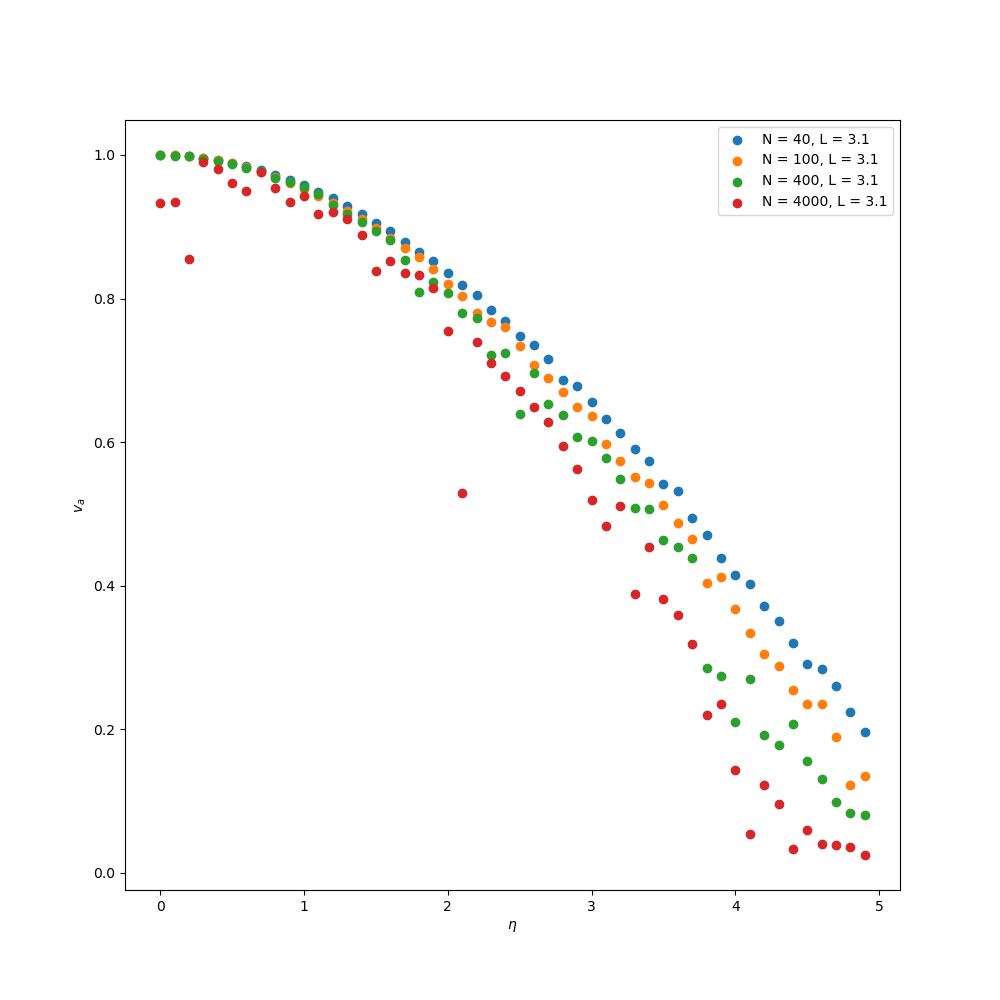
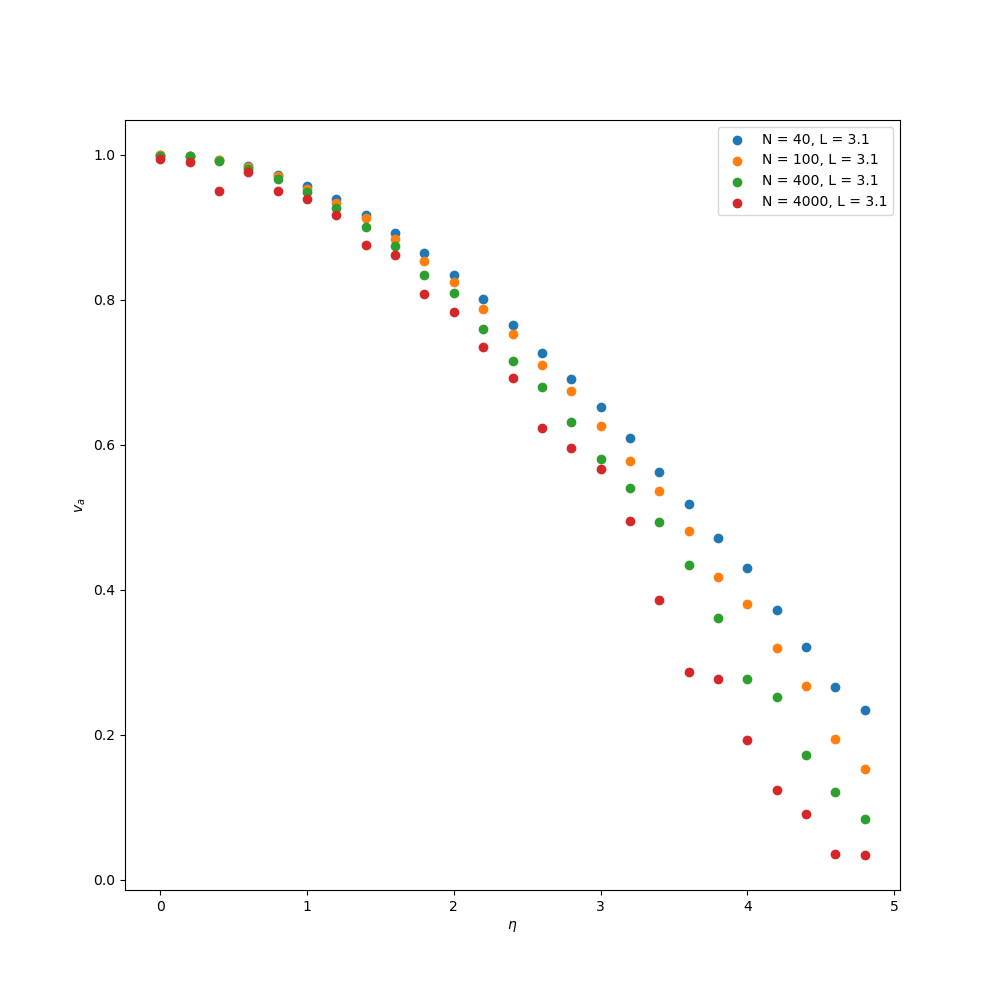
updating params

diff --git a/ploter.py b/ploter.py
@@ -91,21 +91,26 @@ ax4.quiver(X[-1], Y[-1], np.cos(Theta[-1]), np.sin(Theta[-1]))
 plt.savefig('viscek.png')
 
 plt.figure(figsize=(10, 10))
-eta = np.linspace(0, 4.9, 50)
+eta = np.linspace(0, 4.8, 25)
 
 data = np.load('V_a_0.npy')
+data = (data[0:25, :] + data[25:50, :] + data[50:75,:] + data[75:100,:])/4
+print(data.shape)
 data = np.mean(data[:, -100:], axis=1)
 plt.scatter(eta, data, label='N = 40, L = 3.1')
 
 data = np.load('V_a_1.npy')
+data = (data[0:25, :] + data[25:50, :] + data[50:75,:] + data[75:100,:])/4
 data = np.mean(data[:, -100:], axis=1)
 plt.scatter(eta, data, label='N = 100, L = 3.1')
 
 data = np.load('V_a_2.npy')
+data = (data[0:25, :] + data[25:50, :] + data[50:75,:] + data[75:100,:])/4
 data = np.mean(data[:, -100:], axis=1)
 plt.scatter(eta, data, label='N = 400, L = 3.1')
 
-data = np.load('V_a_3_4.npy')
+data = np.load('V_a_3.npy')
+data = (data[0:25, :] + data[25:50, :] + data[50:75,:] + data[75:100,:])/4
 data = np.mean(data[:, -100:], axis=1)
 plt.scatter(eta, data, label='N = 4000, L = 3.1')
 
@@ -114,10 +119,6 @@ plt.legend()
 plt.xlabel('$\eta$')
 plt.ylabel('$v_a$')
 plt.savefig('V_a.png')
-
-plt.figure(figsize=(10, 10))
-data = np.load('V_a_3_2.npy')
-plt.plot(data[10, :])
 
 
 #fig = plt.figure(figsize=(10, 10))

diff --git a/param_generator.py b/param_generator.py
@@ -10,7 +10,7 @@ R = 1
 eta = 3
 seed = 0
 
-n = 100
+n = 155
 params = np.zeros((n, 8))
 for i in range(n):
     params[i, 0] = N[3]
@@ -19,8 +19,8 @@ for i in range(n):
     params[i, 3] = dt
     params[i, 4] = t_max
     params[i, 5] = R
-    params[i, 6] = (0.2*i)%5
-    params[i, 7] = i//25
+    params[i, 6] = (0.2*i)%6.28
+    params[i, 7] = i//31
     
 np.savetxt('params.txt', params, delimiter=',')
 
